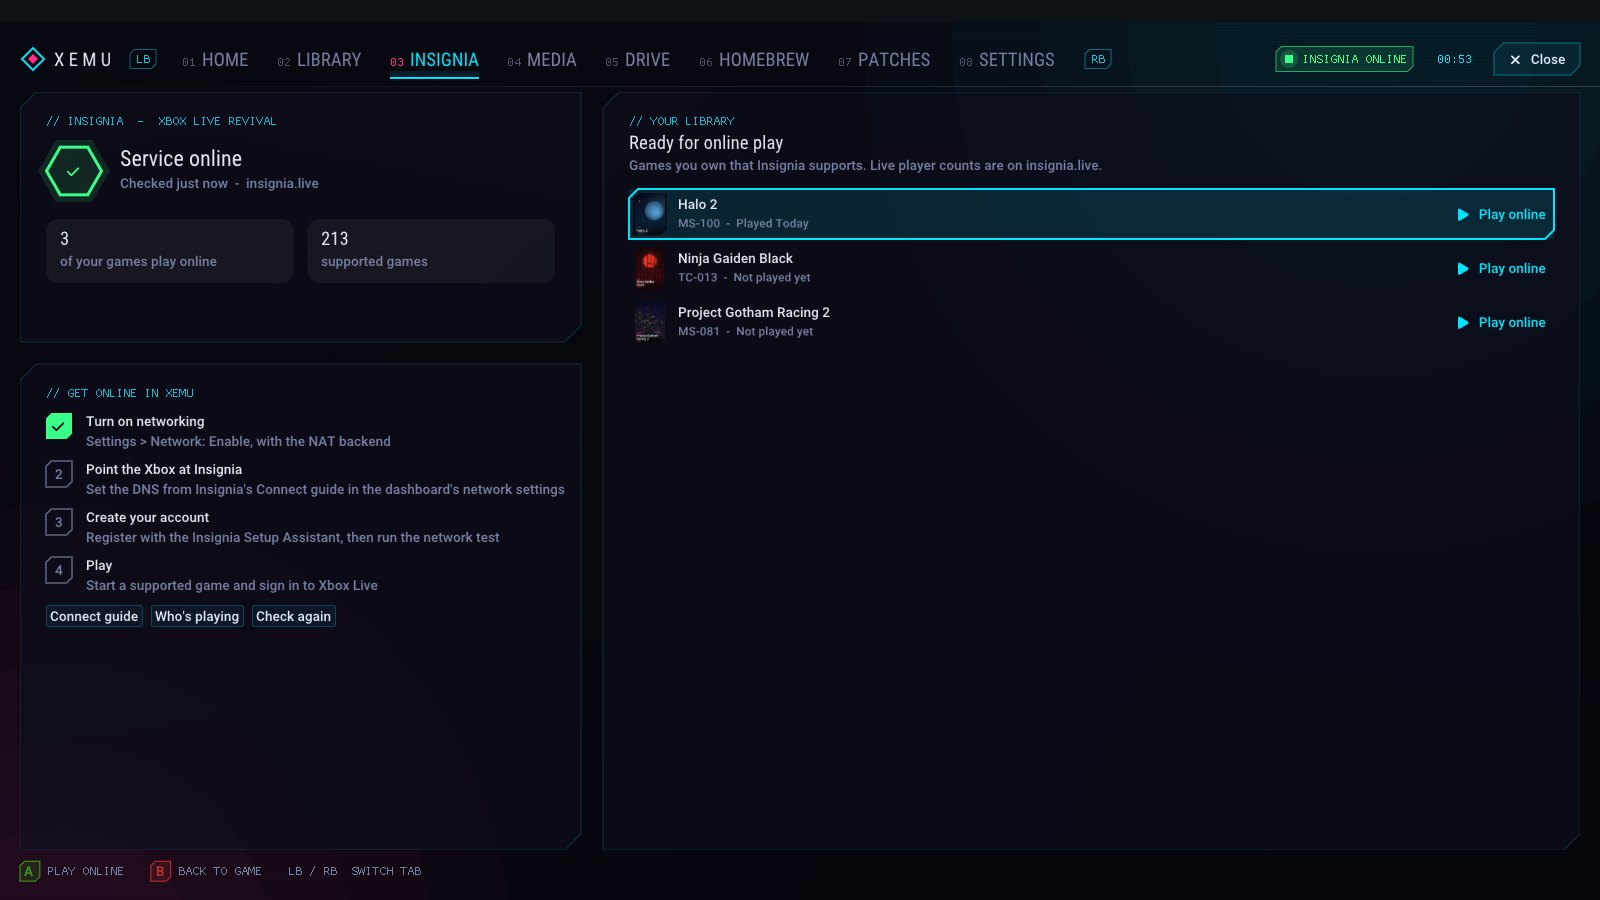
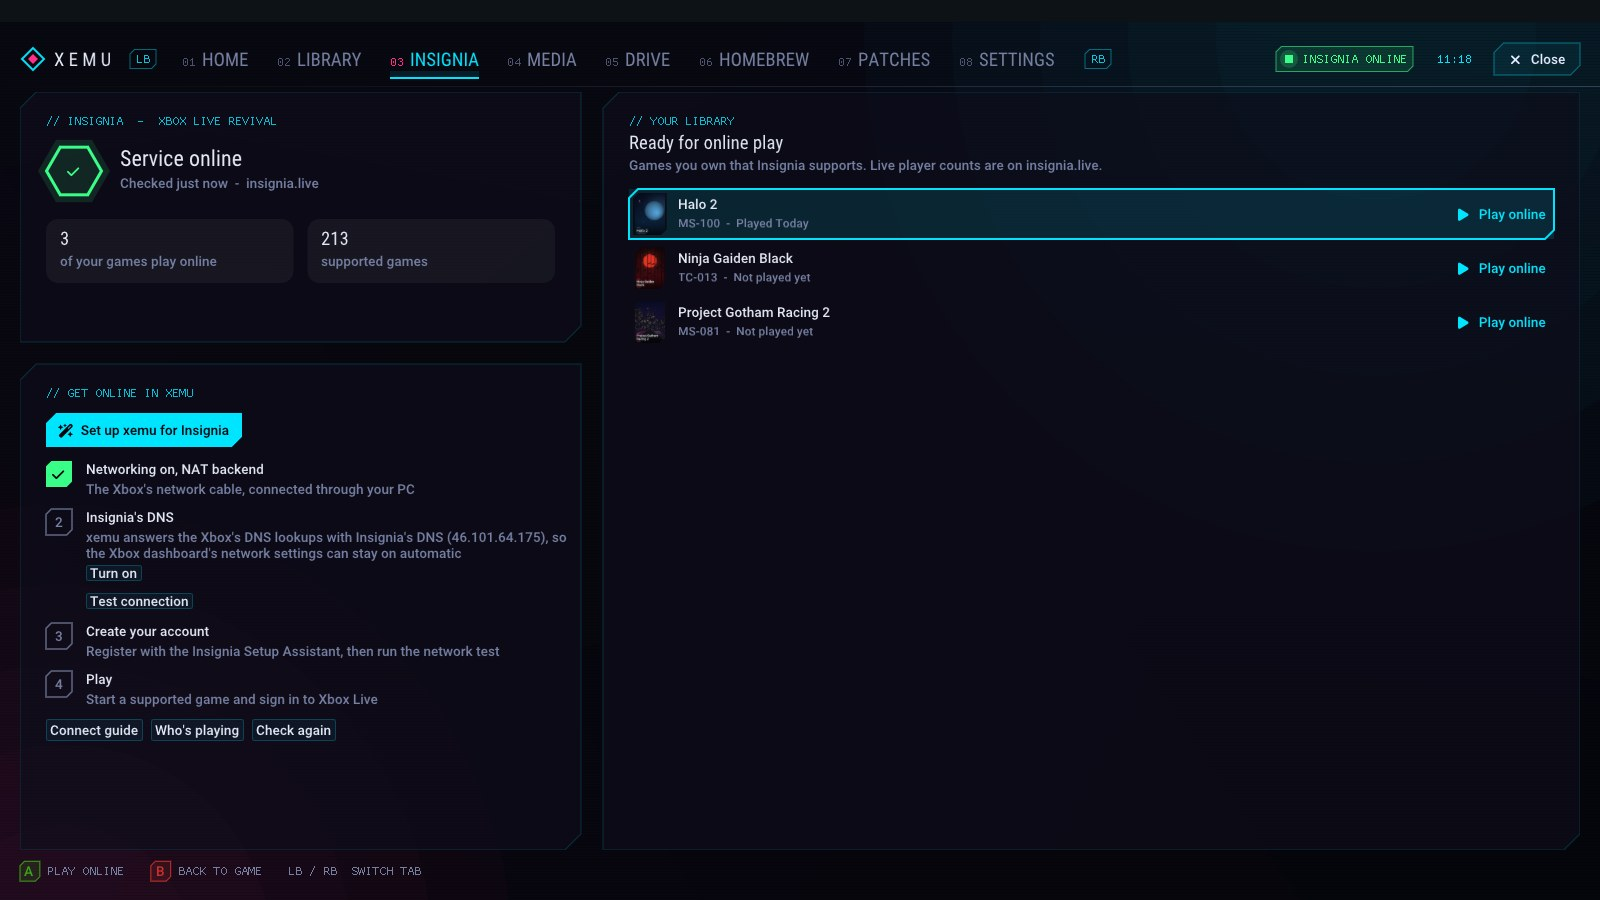
README: v1.8 and language screenshots
Claude-Session: https://claude.ai/code/session_019Gr5W4qmmyCDZGv1HdNHkG

Changed region(s): [[0.0312, 0.4356, 0.3438, 0.84]]

diff --git a/README.md b/README.md
@@ -36,6 +36,10 @@ finding out why a game is slow, and quality-of-life features.
 |---|---|---|
 | ![Performance Capture](docs/screenshots/perf-capture.jpg) | ![Settings](docs/screenshots/settings.jpg) | ![Setup check](docs/screenshots/setup.jpg) |
 
+| Deutsch | 日本語 | Русский |
+|---|---|---|
+| ![German](docs/screenshots/lang-de.jpg) | ![Japanese](docs/screenshots/lang-ja.jpg) | ![Russian](docs/screenshots/lang-ru.jpg) |
+
 <sub>Screenshots use original placeholder cover art (not the real box art), example compatibility ratings and invented example homebrew. The Performance Capture screenshot shows a real recording of Project Gotham Racing.</sub>
 
 ## Download
@@ -55,6 +59,21 @@ the Home tab that points out any missing files.
 
 ## What's added
 
+- **New in v1.8: languages, easy Insignia setup, voice commands.**
+  - **11 languages:** English, Español, Português (Brasil), Français,
+    Deutsch, Italiano, Polski, Русский, 日本語, 简体中文 and 한국어. It follows
+    your Windows language; change it on the welcome screen, the dashboard's
+    Settings tab or Settings > General. Japanese, Chinese and Korean use
+    fonts Windows already has. Translations were made with AI help and live
+    in [`ui/xui/lang`](ui/xui/lang); corrections are welcome.
+  - **One-click Insignia setup:** "Set up xemu for Insignia" on the
+    Insignia tab turns on networking (NAT) and Insignia's DNS. xemu answers
+    the Xbox's DNS lookups with Insignia's server, so nothing has to be
+    changed in the Xbox dashboard. "Test connection" checks that Insignia's
+    DNS answers from your PC.
+  - **Voice commands for Performance Capture (experimental, off by
+    default):** "Performance capture start", "stop" and "mark", using
+    Windows speech recognition on your PC.
 - **New in v1.7: setup and everyday polish.**
   - **Setup check:** Home shows what's missing (MCPX boot ROM, BIOS, hard
     disk image, games folder) with a button to fix each; also in Settings
